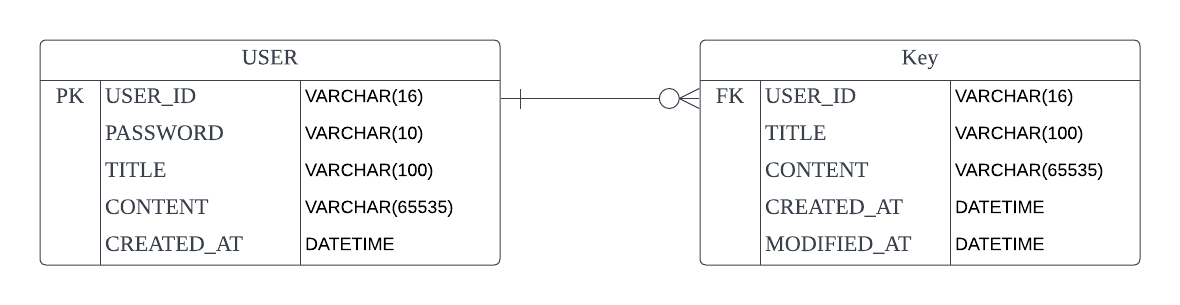
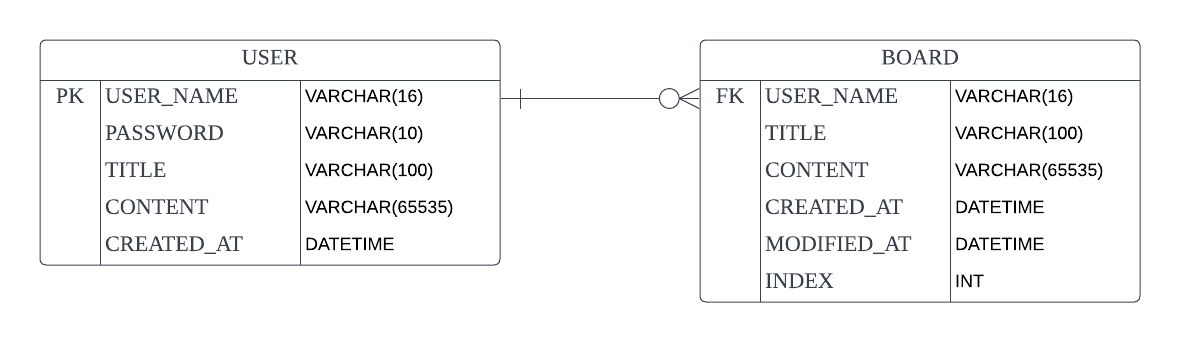
중간 저장

diff --git a/src/main/java/com/sparta/anonymousboard/controller/BoardController.java b/src/main/java/com/sparta/anonymousboard/controller/BoardController.java
@@ -1,9 +1,25 @@
 package com.sparta.anonymousboard.controller;
 
-import org.springframework.web.bind.annotation.RequestMapping;
-import org.springframework.web.bind.annotation.RestController;
+import com.sparta.anonymousboard.entity.Board;
+import com.sparta.anonymousboard.service.BoardService;
+import org.springframework.beans.factory.annotation.Autowired;
+import org.springframework.stereotype.Controller;
+import org.springframework.web.bind.annotation.*;
 
-@RestController
-@RequestMapping("api")
+@Controller
+@RequestMapping("/api")
 public class BoardController {
+
+    @Autowired
+    private BoardService boardService;
+    @GetMapping("/post")
+    public String writeBoardForm(){
+        return "writeBoard";
+    }
+
+    @PostMapping("/postcheck")
+    public String writtenBoardCheck(Board board){
+        boardService.write(board);
+        return "";
+    }
 }

diff --git a/src/main/java/com/sparta/anonymousboard/entity/Board.java b/src/main/java/com/sparta/anonymousboard/entity/Board.java
@@ -1,7 +1,6 @@
 package com.sparta.anonymousboard.entity;
 
-import jakarta.persistence.Entity;
-import jakarta.persistence.Table;
+import jakarta.persistence.*;
 import lombok.Getter;
 import lombok.NoArgsConstructor;
 import lombok.Setter;
@@ -12,4 +11,13 @@ import lombok.Setter;
 @Table(name = "board")
 @NoArgsConstructor
 public class Board {
+
+    @Id
+    @GeneratedValue(strategy = GenerationType.IDENTITY)
+    private Integer index;
+
+    private String userName;
+    private String title;
+    private String content;
+    private String password;
 }

diff --git a/src/main/java/com/sparta/anonymousboard/service/BoardService.java b/src/main/java/com/sparta/anonymousboard/service/BoardService.java
@@ -1,7 +1,17 @@
 package com.sparta.anonymousboard.service;
 
+import com.sparta.anonymousboard.entity.Board;
+import com.sparta.anonymousboard.repository.BoardRepository;
+import org.springframework.beans.factory.annotation.Autowired;
 import org.springframework.stereotype.Service;
 
 @Service
 public class BoardService {
+
+    @Autowired
+    private BoardRepository boardRepository;
+
+    public void write(Board board){
+        boardRepository.save(board);
+    }
 }

diff --git a/src/main/java/com/sparta/anonymousboard/repository/BoardRepository.java b/src/main/java/com/sparta/anonymousboard/repository/BoardRepository.java
@@ -5,8 +5,7 @@ import org.springframework.data.jpa.repository.JpaRepository;
 import org.springframework.stereotype.Repository;
 
 @Repository
-public class BoardRepository  {
+public interface BoardRepository  extends JpaRepository<Board, Integer>{
 
-    //extends JpaRepository<>
     // 상속 제네릭스 넣어주고  아래에는 쿼리스트링 넣어서 디비에서 데이터 뽑아오기
 }
